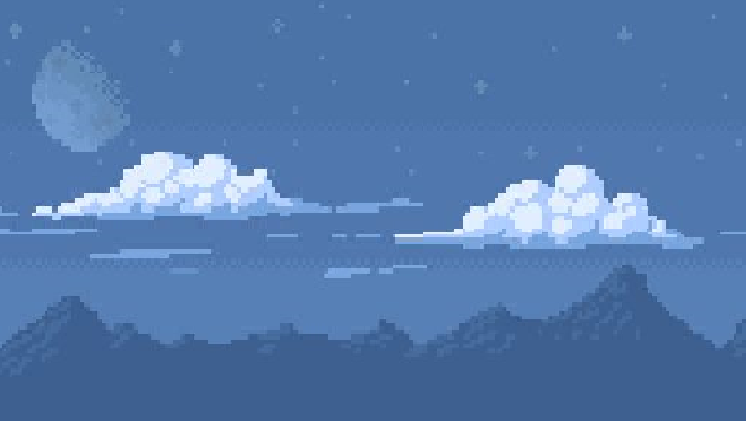
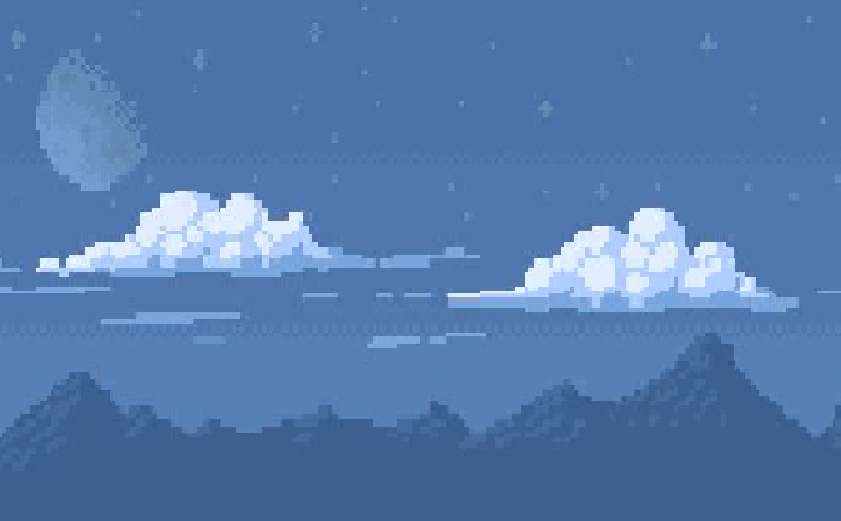
Jag började på menyn. Först gjorde jag en meny klass med texture2D och en vector position. Jag gjorde också konstruktorn samt dess objekt i main  i loadcontent. Jag skapade get / set metoder för variablerna och jag gjorde en draw metod som ritar ut en blå skärm. Jag gjorde också liknande scoresystem

diff --git a/Template/Game1.cs b/Template/Game1.cs
@@ -31,8 +31,14 @@ namespace Pong
         //Skapar objekten för paddlar och boll
         private Paddle leftPaddle;
         private Paddle rightPaddle;
+
         private Score score1;
+
         private Ball ball1;
+
+        private Background backGround1;
+
+        private Meny menuScreen;
 
 
         public Game1()
@@ -111,6 +117,9 @@ namespace Pong
 
             ball1 = new Ball(Content.Load<Texture2D>("Ball"), new Vector2((Window.ClientBounds.Width / 2) - 5, (Window.ClientBounds.Height / 2) - 5));
 
+            backGround1 = new Background(Content.Load<Texture2D>("BackGround"), new Vector2(0, 0));
+
+            menuScreen = new Meny(Content.Load<Texture2D>("Menu/Menu"), new Vector2(0, 0), true);
 
             // Create a new SpriteBatch, which can be used to draw textures.
 
@@ -167,28 +176,32 @@ namespace Pong
 
         protected override void Update(GameTime gameTime)
         {
-  
-               score1.Update(leftPaddle, rightPaddle, ball1, Window);
 
-            if (score1.Pause == false)
-            {
-                //Update metoder som ständigt anropas från respektive klasser
-                ball1.Update();
-                leftPaddle.Update();
-                rightPaddle.Update();
-
-
-                //Bollens kolission med paddlarna, anropar boll klassen ifall true
-                if (ball1.BallHitbox.Intersects(leftPaddle.PaddleHitbox))
+            if (menuScreen.GameState != true)
+            {             
+                if (score1.Pause == false)
                 {
-                    ball1.Colission();
+                    score1.Update(leftPaddle, rightPaddle, ball1, Window);
 
-                }
+                    //Update metoder som ständigt anropas från respektive klasser
+                    ball1.Update();
+                    leftPaddle.Update();
+                    rightPaddle.Update();
 
-                if (ball1.BallHitbox.Intersects(rightPaddle.PaddleHitbox))
-                {
 
-                    ball1.Colission();
+                    //Bollens kolission med paddlarna, anropar boll klassen ifall true
+                    if (ball1.BallHitbox.Intersects(leftPaddle.PaddleHitbox))
+                    {
+                        ball1.Colission();
+
+                    }
+
+                    if (ball1.BallHitbox.Intersects(rightPaddle.PaddleHitbox))
+                    {
+
+                        ball1.Colission();
+
+                    }
 
                 }
 
@@ -219,13 +232,20 @@ namespace Pong
 
             spriteBatch.Begin();
 
-            //Ritar ut paddlar och boll
-            rightPaddle.Draw(spriteBatch);
-            leftPaddle.Draw(spriteBatch);
+            menuScreen.Draw(spriteBatch);
 
-            ball1.Draw(spriteBatch);
+            if (menuScreen.GameState != true)
+            {
+                backGround1.Draw(spriteBatch);
 
-            score1.Draw(spriteBatch, Window);
+                //Ritar ut paddlar och boll
+                rightPaddle.Draw(spriteBatch);
+                leftPaddle.Draw(spriteBatch);
+
+                ball1.Draw(spriteBatch);
+
+                score1.Draw(spriteBatch, Window);
+            }
 
             spriteBatch.End();
 

diff --git a/Template/Menu/Meny.cs b/Template/Menu/Meny.cs
@@ -1,0 +1,49 @@
+using Microsoft.Xna.Framework;
+using Microsoft.Xna.Framework.Graphics;
+using Microsoft.Xna.Framework.Input;
+using System;
+using System.Collections.Generic;
+
+namespace Pong
+{
+    class Meny
+    {
+        private Texture2D meny;
+        private Vector2 menyPos;
+        private bool gameState;
+
+        public Meny(Texture2D meny, Vector2 menyPos, bool gameState)
+        {
+            this.meny = meny;
+            this.menyPos = menyPos;
+            this.gameState = gameState;
+
+        }
+
+        public Texture2D _Meny
+        {
+            get { return meny; }
+            set { meny = value; }
+        }
+
+        public Vector2 MenyPos
+        {
+            get { return menyPos; }
+            set { menyPos = value; }
+        }
+
+        public bool GameState
+        {
+            get { return gameState; }
+            set { gameState = value; }
+        }
+
+        public void Draw(SpriteBatch spriteBatch)
+        {
+            spriteBatch.Draw(meny, menyPos, Color.White);
+        }
+
+
+
+    }
+}

diff --git a/Template/Menu/Background.cs b/Template/Menu/Background.cs
@@ -1,0 +1,41 @@
+using Microsoft.Xna.Framework;
+using Microsoft.Xna.Framework.Graphics;
+using System;
+using System.Collections.Generic;
+using System.Linq;
+using System.Text;
+using System.Threading.Tasks;
+
+namespace Pong
+{
+    class Background
+    {
+        private Texture2D backGround;
+        private Vector2 backGroundPos;
+
+        public Background(Texture2D backGround, Vector2 backGroundPos)
+        {
+            this.backGround = backGround;
+            this.backGroundPos = backGroundPos;
+        }
+
+        public Texture2D BackGround
+        {
+            get { return backGround; }
+            set { backGround = value; }
+        }
+
+        public Vector2 BackGroundPos
+        {
+            get { return backGroundPos; }
+            set { backGroundPos = value; }
+        }
+
+        public void Draw(SpriteBatch spriteBatch)
+        {
+            spriteBatch.Draw(backGround, backGroundPos, Color.White);
+        }
+
+
+    }
+}

diff --git a/Template/Program.cs b/Template/Program.cs
@@ -1,7 +1,7 @@
 using System;
 using Pong;
 
-namespace Template
+namespace Pong
 {
 #if WINDOWS || LINUX
     /// <summary>
@@ -16,7 +16,10 @@ namespace Template
         static void Main()
         {
             using (var game = new Game1())
+            {
                 game.Run();
+
+            }
         }
     }
 #endif
